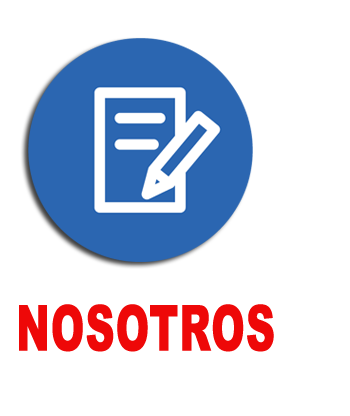
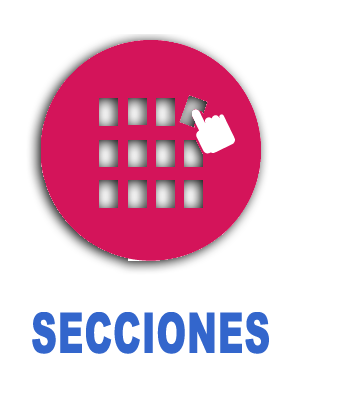
Cambio de Color de titulos de iconos de Inicio

diff --git a/resources/views/inicio.blade.php b/resources/views/inicio.blade.php
@@ -14,21 +14,21 @@
 	<div class="col-xs-0 col-sm-0 col-md-1 card-container"></div>
     <div class="col-xs-12 col-sm-6 col-md-3 card-container">
 		<a href="<?= URL::to('admin/productos/create'); ?>">
-			<img class="rounded float-left" src="{{ asset('img/producto.png') }}" 
+			<img class="rounded float-left" src="{{ asset('img/productos.png') }}" 
 			alt="Card image cap" class="img-responsive" style="width: 12rem; 
 			padding-left: 0%; margin-top: 30px; margin-left: 0%;">
 		</a>
 	</div>
 	<div class="col-xs-12 col-sm-6 col-md-3 card-container">
 		<a href="<?= URL::to('admin/proveedores/create'); ?>">
-			<img class="card-img-top" src="{{ asset('img/proveedor.png') }}" 
+			<img class="card-img-top" src="{{ asset('img/proveedores.png') }}" 
 			alt="Card image cap" class="img-responsive" style="width: 11rem; 
 			padding-left: 0%; margin-top: 43px; margin-left: 0%;">
 		</a>
 	</div>
 	<div class="col-xs-12 col-sm-6 col-md-3 card-container">
 		<a href="<?= URL::to('admin/categorias/create'); ?>">
-			<img class="card-img-top" src="{{ asset('img/categoria.png') }}" 
+			<img class="card-img-top" src="{{ asset('img/categorias.png') }}" 
 			alt="Card image cap" class="img-responsive" style="width: 11rem; 
 			padding-left: 0%; margin-top: 40px; margin-left: 0%;">
 		</a>
@@ -39,22 +39,22 @@
     
     <div class="col-xs-12 col-sm-6 col-md-3 card-container">
 		<a href="<?= URL::to('admin/secciones/create'); ?>">
-			<img class="card-img-top" src="{{ asset('img/secciones.png') }}" 
+			<img class="card-img-top" src="{{ asset('img/seccion.png') }}" 
 			alt="Card image cap" class="img-responsive" style="width: 11rem; 
-			padding-left: 0%; margin-top: 10px; margin-left: 0%;">
+			padding-left: 0%; margin-top: 10px; margin-left: 5%;">
 		</a>
 	</div>
 	<div class="col-xs-12 col-sm-6 col-md-3 card-container">
 		<a href="/inicio">
-			<img class="card-img-top" src="{{ asset('img/producto2.png') }}" 
+			<img class="card-img-top" src="{{ asset('img/manual.png') }}" 
 			alt="Card image cap" class="img-responsive" style="width: 11rem; 
 			padding-left: 0%; margin-top: 10px; margin-left: 0%;">
 		</a>
 	</div>
 	<div class="col-xs-12 col-sm-6 col-md-3 card-container"> 
 		<a href="/inicio">
-			<img class="rounded float-left" src="{{ asset('img/seccion.png') }}" 
-			alt="Card image cap" class="img-responsive" style="width: 11rem; 
+			<img class="rounded float-left" src="{{ asset('img/nosotros.png') }}" 
+			alt="Card image cap" class="img-responsive" style="width: 9rem; 
 			padding-left: 0%; margin-top: 10px; margin-left: 0%;">
 		</a>
 	</div>

diff --git a/resources/views/template/base.blade.php b/resources/views/template/base.blade.php
@@ -16,8 +16,8 @@
 <body>
     <header>
         <span class="lnr lnr-menu show"></span>
-        <img src="{{ asset('img/irbe6.png') }}" width="300" height="47" class="img-responsive" style="padding-left: 5%; margin-top: -5px; margin-left: 33%;">
-        <i class="fas fa-bell fa-2x img-responsive" style="margin-top: 10px; margin-left: 30%;"></i>        
+        <img src="{{ asset('img/irbe6.png') }}" width="300" height="47" class="img-responsive" style="padding-left: 5%; margin-top: 5px; margin-left: 33%;">
+        <!--<i class="fas fa-bell fa-2x img-responsive" style="margin-top: 5px; margin-left: 30%;"></i> -->       
     </header>
 
     <main>
